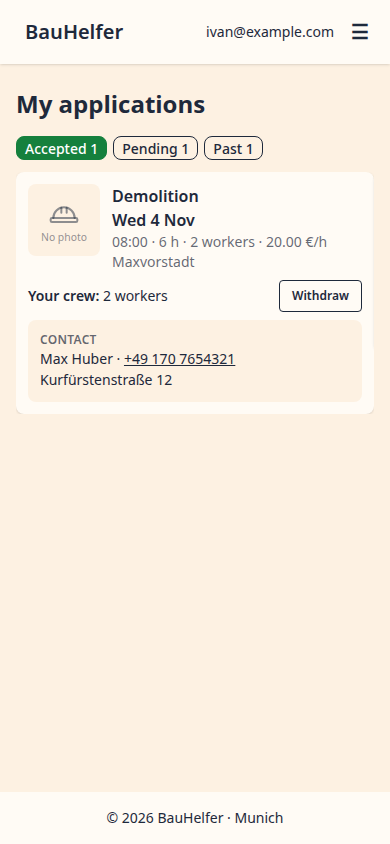
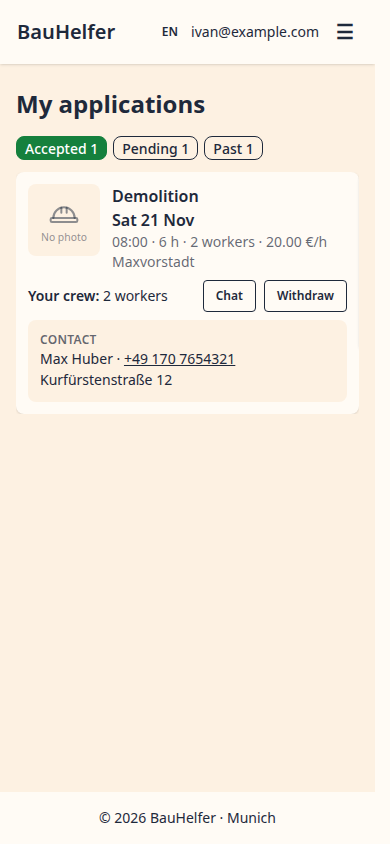
Add the built screenshot of the chat

diff --git a/tests/e2e/built_screenshots.py b/tests/e2e/built_screenshots.py
@@ -21,6 +21,7 @@ from django.utils import timezone
 from PIL import Image, ImageDraw
 
 from accounts.models import EmployerProfile, WorkerProfile
+from chat.models import Message
 from jobs.models import Application, Job, JobPhoto
 from jobs.tests.test_views import make_job
 from reviews.models import Review
@@ -59,10 +60,12 @@ def test_save_built_screenshots(page):
     1. Create an employer with three open jobs (one with three photos, one with two
        applications, one of them accepted) and a cancelled one, and a worker; Ivan with
        an accepted, a pending and a past application (#26); Andrii rated three times by
-       another employer, both sides (#39)
-    2. Open the job list as a guest, the job page as the worker, "Post a job", "My jobs",
-       the job page with the applications and Andrii's worker page as the employer, "My
-       applications" as Ivan, on a 390 x 844 screen in the light theme
+       another employer, both sides (#39); a chat of the employer with the accepted Mehmet
+       (#35)
+    2. Open the job list as a guest, the job page as the worker, the chat with Mehmet,
+       "Post a job", "My jobs", the job page with the applications and Andrii's worker page
+       as the employer, "My applications" as Ivan, on a 390 x 844 screen in the light
+       theme
     3. Expect: one full-page PNG per screen in docs/mockups/built/
     """
     OUT.mkdir(exist_ok=True)
@@ -241,6 +244,24 @@ def test_save_built_screenshots(page):
         Review.objects.create(application=work, author=meier, rating=stars, tags=tags)
         Review.objects.create(application=work, author=andrii, rating=5)
 
+    # The chat of Max and the accepted Mehmet (#35), the talk of the mockup over two days.
+    # Shot first among Max's pages: opening it reads Mehmet's messages, so the unread
+    # badge does not show on the others.
+    mehmet_application = Application.objects.get(worker__email="mehmet@example.com")
+    mehmet = mehmet_application.worker
+    for minutes_ago, sender, text in (
+        (26 * 60, mehmet, "Hello! Is there parking near the house for a van?"),
+        (25 * 60, employer, "Yes, in the yard. Drive in through the gate."),
+        (90, mehmet, "Thanks. Should I bring my own hammer drill, or do you have one?"),
+        (80, employer, "We have two. See you at 7."),
+    ):
+        message = Message.objects.create(
+            application=mehmet_application, sender=sender, text=text
+        )
+        Message.objects.filter(pk=message.pk).update(
+            created_at=timezone.now() - datetime.timedelta(minutes=minutes_ago)
+        )
+
     # live_server does not serve uploads (in-memory storage): answer every photo address.
     picture = photo_bytes("#d9822b")
     page.route(
@@ -254,6 +275,7 @@ def test_save_built_screenshots(page):
     shoot(page, f"/jobs/{job.pk}/", "job-detail")
     page.context.clear_cookies()
     log_in(page, "max@example.com")
+    shoot(page, f"/chat/{mehmet_application.pk}/", "chat")
     shoot(page, "/jobs/new/", "post-a-job")
     shoot(page, "/jobs/mine/", "my-jobs")
     shoot(page, f"/jobs/{demolition.pk}/", "job-applications")
